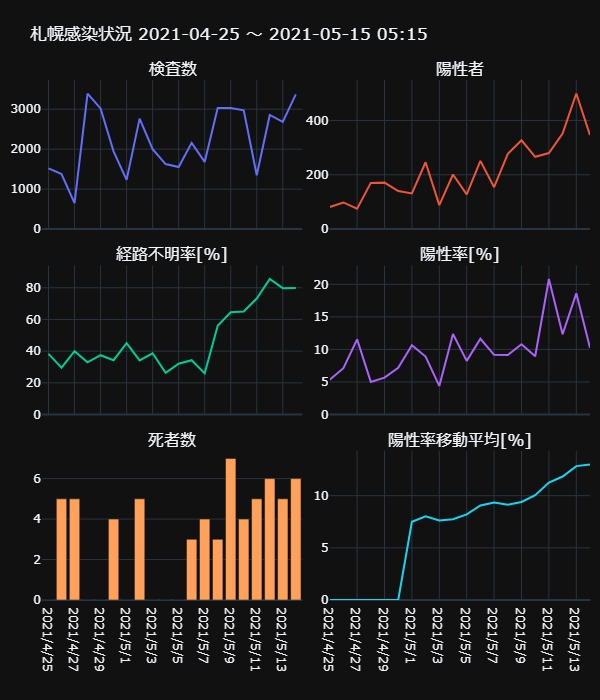
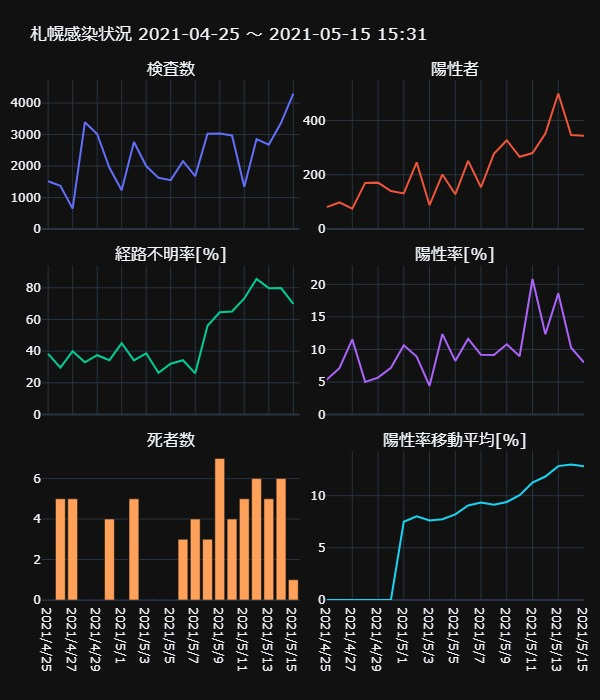
Updated with latest data.

diff --git a/docs/_includes/sapporo.html b/docs/_includes/sapporo.html
@@ -1,1 +1,1 @@
-<div>                            <div id="160d628d-3fd7-4721-a3ab-afab684be9de" class="plotly-graph-div" style="height:700px; width:600px;"></div>            <script type="text/javascript">                                    window.PLOTLYENV=window.PLOTLYENV || {};                                    if (document.getElementById("160d628d-3fd7-4721-a3ab-afab684be9de")) {                    Plotly.newPlot(                        "160d628d-3fd7-4721-a3ab-afab684be9de",                        [{"name": "\u691c\u67fb\u6570", "type": "scatter", "x": ["2021/4/25", "2021/4/26", "2021/4/27", "2021/4/28", "2021/4/29", "2021/4/30", "2021/5/1", "2021/5/2", "2021/5/3", "2021/5/4", "2021/5/5", "2021/5/6", "2021/5/7", "2021/5/8", "2021/5/9", "2021/5/10", "2021/5/11", "2021/5/12", "2021/5/13", "2021/5/14"], "xaxis": "x", "y": [1517, 1377, 649, 3391, 3018, 1946, 1231, 2764, 2001, 1626, 1553, 2157, 1680, 3028, 3031, 2972, 1345, 2856, 2680, 3372], "yaxis": "y"}, {"name": "\u967d\u6027\u8005", "type": "scatter", "x": ["2021/4/25", "2021/4/26", "2021/4/27", "2021/4/28", "2021/4/29", "2021/4/30", "2021/5/1", "2021/5/2", "2021/5/3", "2021/5/4", "2021/5/5", "2021/5/6", "2021/5/7", "2021/5/8", "2021/5/9", "2021/5/10", "2021/5/11", "2021/5/12", "2021/5/13", "2021/5/14"], "xaxis": "x2", "y": [81, 98, 75, 170, 171, 140, 131, 246, 88, 201, 128, 251, 154, 277, 327, 266, 280, 352, 499, 346], "yaxis": "y2"}, {"name": "\u7d4c\u8def\u4e0d\u660e\u7387[%]", "type": "scatter", "x": ["2021/4/25", "2021/4/26", "2021/4/27", "2021/4/28", "2021/4/29", "2021/4/30", "2021/5/1", "2021/5/2", "2021/5/3", "2021/5/4", "2021/5/5", "2021/5/6", "2021/5/7", "2021/5/8", "2021/5/9", "2021/5/10", "2021/5/11", "2021/5/12", "2021/5/13", "2021/5/14"], "xaxis": "x3", "y": [38.2716049382716, 29.591836734693878, 40.0, 32.94117647058823, 37.42690058479532, 34.285714285714285, 45.038167938931295, 34.146341463414636, 38.63636363636363, 26.368159203980102, 32.03125, 34.26294820717131, 25.97402597402597, 55.95667870036101, 64.52599388379205, 65.0375939849624, 73.21428571428571, 85.51136363636364, 79.75951903807615, 79.76878612716763], "yaxis": "y3"}, {"name": "\u967d\u6027\u7387[%]", "type": "scatter", "x": ["2021/4/25", "2021/4/26", "2021/4/27", "2021/4/28", "2021/4/29", "2021/4/30", "2021/5/1", "2021/5/2", "2021/5/3", "2021/5/4", "2021/5/5", "2021/5/6", "2021/5/7", "2021/5/8", "2021/5/9", "2021/5/10", "2021/5/11", "2021/5/12", "2021/5/13", "2021/5/14"], "xaxis": "x4", "y": [5.339485827290705, 7.116920842411038, 11.556240369799692, 5.013270421704512, 5.666003976143141, 7.194244604316546, 10.641754670999187, 8.90014471780029, 4.397801099450275, 12.361623616236162, 8.24211204121056, 11.636532220676866, 9.166666666666666, 9.147952443857331, 10.788518640712635, 8.950201884253028, 20.817843866171003, 12.324929971988796, 18.619402985074625, 10.26097271648873], "yaxis": "y4"}, {"name": "\u6b7b\u8005\u6570", "type": "bar", "x": ["2021/4/25", "2021/4/26", "2021/4/27", "2021/4/28", "2021/4/29", "2021/4/30", "2021/5/1", "2021/5/2", "2021/5/3", "2021/5/4", "2021/5/5", "2021/5/6", "2021/5/7", "2021/5/8", "2021/5/9", "2021/5/10", "2021/5/11", "2021/5/12", "2021/5/13", "2021/5/14"], "xaxis": "x5", "y": [0, 5, 5, 0, 0, 4, 0, 5, 0, 0, 0, 3, 4, 3, 7, 4, 5, 6, 5, 6], "yaxis": "y5"}, {"name": "\u967d\u6027\u7387\u79fb\u52d5\u5e73\u5747[%]", "type": "scatter", "x": ["2021/4/25", "2021/4/26", "2021/4/27", "2021/4/28", "2021/4/29", "2021/4/30", "2021/5/1", "2021/5/2", "2021/5/3", "2021/5/4", "2021/5/5", "2021/5/6", "2021/5/7", "2021/5/8", "2021/5/9", "2021/5/10", "2021/5/11", "2021/5/12", "2021/5/13", "2021/5/14"], "xaxis": "x6", "y": [0.0, 0.0, 0.0, 0.0, 0.0, 0.0, 7.503988673237832, 8.012654229024914, 7.624208551459091, 7.739263300950015, 8.20052638945088, 9.053458995812841, 9.335233576148571, 9.12183325798545, 9.391600961258641, 10.041943930516178, 11.249975394792585, 11.833235099189475, 12.830788065532012, 12.987117501220878], "yaxis": "y6"}],                        {"annotations": [{"font": {"size": 16}, "showarrow": false, "text": "\u691c\u67fb\u6570", "x": 0.2375, "xanchor": "center", "xref": "paper", "y": 1.0, "yanchor": "bottom", "yref": "paper"}, {"font": {"size": 16}, "showarrow": false, "text": "\u967d\u6027\u8005", "x": 0.7625, "xanchor": "center", "xref": "paper", "y": 1.0, "yanchor": "bottom", "yref": "paper"}, {"font": {"size": 16}, "showarrow": false, "text": "\u7d4c\u8def\u4e0d\u660e\u7387[%]", "x": 0.2375, "xanchor": "center", "xref": "paper", "y": 0.6433333333333333, "yanchor": "bottom", "yref": "paper"}, {"font": {"size": 16}, "showarrow": false, "text": "\u967d\u6027\u7387[%]", "x": 0.7625, "xanchor": "center", "xref": "paper", "y": 0.6433333333333333, "yanchor": "bottom", "yref": "paper"}, {"font": {"size": 16}, "showarrow": false, "text": "\u6b7b\u8005\u6570", "x": 0.2375, "xanchor": "center", "xref": "paper", "y": 0.2866666666666667, "yanchor": "bottom", "yref": "paper"}, {"font": {"size": 16}, "showarrow": false, "text": "\u967d\u6027\u7387\u79fb\u52d5\u5e73\u5747[%]", "x": 0.7625, "xanchor": "center", "xref": "paper", "y": 0.2866666666666667, "yanchor": "bottom", "yref": "paper"}], "height": 700, "margin": {"b": 100, "l": 10, "r": 10, "t": 80}, "showlegend": false, "template": {"data": {"bar": [{"error_x": {"color": "#f2f5fa"}, "error_y": {"color": "#f2f5fa"}, "marker": {"line": {"color": "rgb(17,17,17)", "width": 0.5}}, "type": "bar"}], "barpolar": [{"marker": {"line": {"color": "rgb(17,17,17)", "width": 0.5}}, "type": "barpolar"}], "carpet": [{"aaxis": {"endlinecolor": "#A2B1C6", "gridcolor": "#506784", "linecolor": "#506784", "minorgridcolor": "#506784", "startlinecolor": "#A2B1C6"}, "baxis": {"endlinecolor": "#A2B1C6", "gridcolor": "#506784", "linecolor": "#506784", "minorgridcolor": "#506784", "startlinecolor": "#A2B1C6"}, "type": "carpet"}], "choropleth": [{"colorbar": {"outlinewidth": 0, "ticks": ""}, "type": "choropleth"}], "contour": [{"colorbar": {"outlinewidth": 0, "ticks": ""}, "colorscale": [[0.0, "#0d0887"], [0.1111111111111111, "#46039f"], [0.2222222222222222, "#7201a8"], [0.3333333333333333, "#9c179e"], [0.4444444444444444, "#bd3786"], [0.5555555555555556, "#d8576b"], [0.6666666666666666, "#ed7953"], [0.7777777777777778, "#fb9f3a"], [0.8888888888888888, "#fdca26"], [1.0, "#f0f921"]], "type": "contour"}], "contourcarpet": [{"colorbar": {"outlinewidth": 0, "ticks": ""}, "type": "contourcarpet"}], "heatmap": [{"colorbar": {"outlinewidth": 0, "ticks": ""}, "colorscale": [[0.0, "#0d0887"], [0.1111111111111111, "#46039f"], [0.2222222222222222, "#7201a8"], [0.3333333333333333, "#9c179e"], [0.4444444444444444, "#bd3786"], [0.5555555555555556, "#d8576b"], [0.6666666666666666, "#ed7953"], [0.7777777777777778, "#fb9f3a"], [0.8888888888888888, "#fdca26"], [1.0, "#f0f921"]], "type": "heatmap"}], "heatmapgl": [{"colorbar": {"outlinewidth": 0, "ticks": ""}, "colorscale": [[0.0, "#0d0887"], [0.1111111111111111, "#46039f"], [0.2222222222222222, "#7201a8"], [0.3333333333333333, "#9c179e"], [0.4444444444444444, "#bd3786"], [0.5555555555555556, "#d8576b"], [0.6666666666666666, "#ed7953"], [0.7777777777777778, "#fb9f3a"], [0.8888888888888888, "#fdca26"], [1.0, "#f0f921"]], "type": "heatmapgl"}], "histogram": [{"marker": {"colorbar": {"outlinewidth": 0, "ticks": ""}}, "type": "histogram"}], "histogram2d": [{"colorbar": {"outlinewidth": 0, "ticks": ""}, "colorscale": [[0.0, "#0d0887"], [0.1111111111111111, "#46039f"], [0.2222222222222222, "#7201a8"], [0.3333333333333333, "#9c179e"], [0.4444444444444444, "#bd3786"], [0.5555555555555556, "#d8576b"], [0.6666666666666666, "#ed7953"], [0.7777777777777778, "#fb9f3a"], [0.8888888888888888, "#fdca26"], [1.0, "#f0f921"]], "type": "histogram2d"}], "histogram2dcontour": [{"colorbar": {"outlinewidth": 0, "ticks": ""}, "colorscale": [[0.0, "#0d0887"], [0.1111111111111111, "#46039f"], [0.2222222222222222, "#7201a8"], [0.3333333333333333, "#9c179e"], [0.4444444444444444, "#bd3786"], [0.5555555555555556, "#d8576b"], [0.6666666666666666, "#ed7953"], [0.7777777777777778, "#fb9f3a"], [0.8888888888888888, "#fdca26"], [1.0, "#f0f921"]], "type": "histogram2dcontour"}], "mesh3d": [{"colorbar": {"outlinewidth": 0, "ticks": ""}, "type": "mesh3d"}], "parcoords": [{"line": {"colorbar": {"outlinewidth": 0, "ticks": ""}}, "type": "parcoords"}], "pie": [{"automargin": true, "type": "pie"}], "scatter": [{"marker": {"line": {"color": "#283442"}}, "type": "scatter"}], "scatter3d": [{"line": {"colorbar": {"outlinewidth": 0, "ticks": ""}}, "marker": {"colorbar": {"outlinewidth": 0, "ticks": ""}}, "type": "scatter3d"}], "scattercarpet": [{"marker": {"colorbar": {"outlinewidth": 0, "ticks": ""}}, "type": "scattercarpet"}], "scattergeo": [{"marker": {"colorbar": {"outlinewidth": 0, "ticks": ""}}, "type": "scattergeo"}], "scattergl": [{"marker": {"line": {"color": "#283442"}}, "type": "scattergl"}], "scattermapbox": [{"marker": {"colorbar": {"outlinewidth": 0, "ticks": ""}}, "type": "scattermapbox"}], "scatterpolar": [{"marker": {"colorbar": {"outlinewidth": 0, "ticks": ""}}, "type": "scatterpolar"}], "scatterpolargl": [{"marker": {"colorbar": {"outlinewidth": 0, "ticks": ""}}, "type": "scatterpolargl"}], "scatterternary": [{"marker": {"colorbar": {"outlinewidth": 0, "ticks": ""}}, "type": "scatterternary"}], "surface": [{"colorbar": {"outlinewidth": 0, "ticks": ""}, "colorscale": [[0.0, "#0d0887"], [0.1111111111111111, "#46039f"], [0.2222222222222222, "#7201a8"], [0.3333333333333333, "#9c179e"], [0.4444444444444444, "#bd3786"], [0.5555555555555556, "#d8576b"], [0.6666666666666666, "#ed7953"], [0.7777777777777778, "#fb9f3a"], [0.8888888888888888, "#fdca26"], [1.0, "#f0f921"]], "type": "surface"}], "table": [{"cells": {"fill": {"color": "#506784"}, "line": {"color": "rgb(17,17,17)"}}, "header": {"fill": {"color": "#2a3f5f"}, "line": {"color": "rgb(17,17,17)"}}, "type": "table"}]}, "layout": {"annotationdefaults": {"arrowcolor": "#f2f5fa", "arrowhead": 0, "arrowwidth": 1}, "autotypenumbers": "strict", "coloraxis": {"colorbar": {"outlinewidth": 0, "ticks": ""}}, "colorscale": {"diverging": [[0, "#8e0152"], [0.1, "#c51b7d"], [0.2, "#de77ae"], [0.3, "#f1b6da"], [0.4, "#fde0ef"], [0.5, "#f7f7f7"], [0.6, "#e6f5d0"], [0.7, "#b8e186"], [0.8, "#7fbc41"], [0.9, "#4d9221"], [1, "#276419"]], "sequential": [[0.0, "#0d0887"], [0.1111111111111111, "#46039f"], [0.2222222222222222, "#7201a8"], [0.3333333333333333, "#9c179e"], [0.4444444444444444, "#bd3786"], [0.5555555555555556, "#d8576b"], [0.6666666666666666, "#ed7953"], [0.7777777777777778, "#fb9f3a"], [0.8888888888888888, "#fdca26"], [1.0, "#f0f921"]], "sequentialminus": [[0.0, "#0d0887"], [0.1111111111111111, "#46039f"], [0.2222222222222222, "#7201a8"], [0.3333333333333333, "#9c179e"], [0.4444444444444444, "#bd3786"], [0.5555555555555556, "#d8576b"], [0.6666666666666666, "#ed7953"], [0.7777777777777778, "#fb9f3a"], [0.8888888888888888, "#fdca26"], [1.0, "#f0f921"]]}, "colorway": ["#636efa", "#EF553B", "#00cc96", "#ab63fa", "#FFA15A", "#19d3f3", "#FF6692", "#B6E880", "#FF97FF", "#FECB52"], "font": {"color": "#f2f5fa"}, "geo": {"bgcolor": "rgb(17,17,17)", "lakecolor": "rgb(17,17,17)", "landcolor": "rgb(17,17,17)", "showlakes": true, "showland": true, "subunitcolor": "#506784"}, "hoverlabel": {"align": "left"}, "hovermode": "closest", "mapbox": {"style": "dark"}, "paper_bgcolor": "rgb(17,17,17)", "plot_bgcolor": "rgb(17,17,17)", "polar": {"angularaxis": {"gridcolor": "#506784", "linecolor": "#506784", "ticks": ""}, "bgcolor": "rgb(17,17,17)", "radialaxis": {"gridcolor": "#506784", "linecolor": "#506784", "ticks": ""}}, "scene": {"xaxis": {"backgroundcolor": "rgb(17,17,17)", "gridcolor": "#506784", "gridwidth": 2, "linecolor": "#506784", "showbackground": true, "ticks": "", "zerolinecolor": "#C8D4E3"}, "yaxis": {"backgroundcolor": "rgb(17,17,17)", "gridcolor": "#506784", "gridwidth": 2, "linecolor": "#506784", "showbackground": true, "ticks": "", "zerolinecolor": "#C8D4E3"}, "zaxis": {"backgroundcolor": "rgb(17,17,17)", "gridcolor": "#506784", "gridwidth": 2, "linecolor": "#506784", "showbackground": true, "ticks": "", "zerolinecolor": "#C8D4E3"}}, "shapedefaults": {"line": {"color": "#f2f5fa"}}, "sliderdefaults": {"bgcolor": "#C8D4E3", "bordercolor": "rgb(17,17,17)", "borderwidth": 1, "tickwidth": 0}, "ternary": {"aaxis": {"gridcolor": "#506784", "linecolor": "#506784", "ticks": ""}, "baxis": {"gridcolor": "#506784", "linecolor": "#506784", "ticks": ""}, "bgcolor": "rgb(17,17,17)", "caxis": {"gridcolor": "#506784", "linecolor": "#506784", "ticks": ""}}, "title": {"x": 0.05}, "updatemenudefaults": {"bgcolor": "#506784", "borderwidth": 0}, "xaxis": {"automargin": true, "gridcolor": "#283442", "linecolor": "#506784", "ticks": "", "title": {"standoff": 15}, "zerolinecolor": "#283442", "zerolinewidth": 2}, "yaxis": {"automargin": true, "gridcolor": "#283442", "linecolor": "#506784", "ticks": "", "title": {"standoff": 15}, "zerolinecolor": "#283442", "zerolinewidth": 2}}}, "title": {"text": "\u672d\u5e4c\u611f\u67d3\u72b6\u6cc1 2021-04-25 \uff5e 2021-05-15 05:15"}, "width": 600, "xaxis": {"anchor": "y", "domain": [0.0, 0.475], "matches": "x5", "showticklabels": false}, "xaxis2": {"anchor": "y2", "domain": [0.525, 1.0], "matches": "x6", "showticklabels": false}, "xaxis3": {"anchor": "y3", "domain": [0.0, 0.475], "matches": "x5", "showticklabels": false}, "xaxis4": {"anchor": "y4", "domain": [0.525, 1.0], "matches": "x6", "showticklabels": false}, "xaxis5": {"anchor": "y5", "domain": [0.0, 0.475]}, "xaxis6": {"anchor": "y6", "domain": [0.525, 1.0]}, "yaxis": {"anchor": "x", "domain": [0.7133333333333334, 1.0], "range": [0, 3730.1000000000004]}, "yaxis2": {"anchor": "x2", "domain": [0.7133333333333334, 1.0], "range": [0, 548.9000000000001]}, "yaxis3": {"anchor": "x3", "domain": [0.3566666666666667, 0.6433333333333333], "range": [0, 94.06250000000001]}, "yaxis4": {"anchor": "x4", "domain": [0.3566666666666667, 0.6433333333333333], "range": [0, 22.899628252788105]}, "yaxis5": {"anchor": "x5", "domain": [0.0, 0.2866666666666667]}, "yaxis6": {"anchor": "x6", "domain": [0.0, 0.2866666666666667], "range": [0, 14.285829251342967]}},                        {"responsive": true}                    )                };                            </script>        </div>
+<div>                            <div id="f09716a9-8408-4a1b-a61a-2e7aa1d3f681" class="plotly-graph-div" style="height:700px; width:600px;"></div>            <script type="text/javascript">                                    window.PLOTLYENV=window.PLOTLYENV || {};                                    if (document.getElementById("f09716a9-8408-4a1b-a61a-2e7aa1d3f681")) {                    Plotly.newPlot(                        "f09716a9-8408-4a1b-a61a-2e7aa1d3f681",                        [{"name": "\u691c\u67fb\u6570", "type": "scatter", "x": ["2021/4/25", "2021/4/26", "2021/4/27", "2021/4/28", "2021/4/29", "2021/4/30", "2021/5/1", "2021/5/2", "2021/5/3", "2021/5/4", "2021/5/5", "2021/5/6", "2021/5/7", "2021/5/8", "2021/5/9", "2021/5/10", "2021/5/11", "2021/5/12", "2021/5/13", "2021/5/14", "2021/5/15"], "xaxis": "x", "y": [1517, 1377, 649, 3391, 3018, 1946, 1231, 2764, 2001, 1626, 1553, 2157, 1680, 3028, 3031, 2972, 1345, 2856, 2680, 3372, 4302], "yaxis": "y"}, {"name": "\u967d\u6027\u8005", "type": "scatter", "x": ["2021/4/25", "2021/4/26", "2021/4/27", "2021/4/28", "2021/4/29", "2021/4/30", "2021/5/1", "2021/5/2", "2021/5/3", "2021/5/4", "2021/5/5", "2021/5/6", "2021/5/7", "2021/5/8", "2021/5/9", "2021/5/10", "2021/5/11", "2021/5/12", "2021/5/13", "2021/5/14", "2021/5/15"], "xaxis": "x2", "y": [81, 98, 75, 170, 171, 140, 131, 246, 88, 201, 128, 251, 154, 277, 327, 266, 280, 352, 499, 346, 344], "yaxis": "y2"}, {"name": "\u7d4c\u8def\u4e0d\u660e\u7387[%]", "type": "scatter", "x": ["2021/4/25", "2021/4/26", "2021/4/27", "2021/4/28", "2021/4/29", "2021/4/30", "2021/5/1", "2021/5/2", "2021/5/3", "2021/5/4", "2021/5/5", "2021/5/6", "2021/5/7", "2021/5/8", "2021/5/9", "2021/5/10", "2021/5/11", "2021/5/12", "2021/5/13", "2021/5/14", "2021/5/15"], "xaxis": "x3", "y": [38.2716049382716, 29.591836734693878, 40.0, 32.94117647058823, 37.42690058479532, 34.285714285714285, 45.038167938931295, 34.146341463414636, 38.63636363636363, 26.368159203980102, 32.03125, 34.26294820717131, 25.97402597402597, 55.95667870036101, 64.52599388379205, 65.0375939849624, 73.21428571428571, 85.51136363636364, 79.75951903807615, 79.76878612716763, 69.76744186046511], "yaxis": "y3"}, {"name": "\u967d\u6027\u7387[%]", "type": "scatter", "x": ["2021/4/25", "2021/4/26", "2021/4/27", "2021/4/28", "2021/4/29", "2021/4/30", "2021/5/1", "2021/5/2", "2021/5/3", "2021/5/4", "2021/5/5", "2021/5/6", "2021/5/7", "2021/5/8", "2021/5/9", "2021/5/10", "2021/5/11", "2021/5/12", "2021/5/13", "2021/5/14", "2021/5/15"], "xaxis": "x4", "y": [5.339485827290705, 7.116920842411038, 11.556240369799692, 5.013270421704512, 5.666003976143141, 7.194244604316546, 10.641754670999187, 8.90014471780029, 4.397801099450275, 12.361623616236162, 8.24211204121056, 11.636532220676866, 9.166666666666666, 9.147952443857331, 10.788518640712635, 8.950201884253028, 20.817843866171003, 12.324929971988796, 18.619402985074625, 10.26097271648873, 7.996280799628081], "yaxis": "y4"}, {"name": "\u6b7b\u8005\u6570", "type": "bar", "x": ["2021/4/25", "2021/4/26", "2021/4/27", "2021/4/28", "2021/4/29", "2021/4/30", "2021/5/1", "2021/5/2", "2021/5/3", "2021/5/4", "2021/5/5", "2021/5/6", "2021/5/7", "2021/5/8", "2021/5/9", "2021/5/10", "2021/5/11", "2021/5/12", "2021/5/13", "2021/5/14", "2021/5/15"], "xaxis": "x5", "y": [0, 5, 5, 0, 0, 4, 0, 5, 0, 0, 0, 3, 4, 3, 7, 4, 5, 6, 5, 6, 1], "yaxis": "y5"}, {"name": "\u967d\u6027\u7387\u79fb\u52d5\u5e73\u5747[%]", "type": "scatter", "x": ["2021/4/25", "2021/4/26", "2021/4/27", "2021/4/28", "2021/4/29", "2021/4/30", "2021/5/1", "2021/5/2", "2021/5/3", "2021/5/4", "2021/5/5", "2021/5/6", "2021/5/7", "2021/5/8", "2021/5/9", "2021/5/10", "2021/5/11", "2021/5/12", "2021/5/13", "2021/5/14", "2021/5/15"], "xaxis": "x6", "y": [0.0, 0.0, 0.0, 0.0, 0.0, 0.0, 7.503988673237832, 8.012654229024914, 7.624208551459091, 7.739263300950015, 8.20052638945088, 9.053458995812841, 9.335233576148571, 9.12183325798545, 9.391600961258641, 10.041943930516178, 11.249975394792585, 11.833235099189475, 12.830788065532012, 12.987117501220878, 12.8225929806167], "yaxis": "y6"}],                        {"annotations": [{"font": {"size": 16}, "showarrow": false, "text": "\u691c\u67fb\u6570", "x": 0.2375, "xanchor": "center", "xref": "paper", "y": 1.0, "yanchor": "bottom", "yref": "paper"}, {"font": {"size": 16}, "showarrow": false, "text": "\u967d\u6027\u8005", "x": 0.7625, "xanchor": "center", "xref": "paper", "y": 1.0, "yanchor": "bottom", "yref": "paper"}, {"font": {"size": 16}, "showarrow": false, "text": "\u7d4c\u8def\u4e0d\u660e\u7387[%]", "x": 0.2375, "xanchor": "center", "xref": "paper", "y": 0.6433333333333333, "yanchor": "bottom", "yref": "paper"}, {"font": {"size": 16}, "showarrow": false, "text": "\u967d\u6027\u7387[%]", "x": 0.7625, "xanchor": "center", "xref": "paper", "y": 0.6433333333333333, "yanchor": "bottom", "yref": "paper"}, {"font": {"size": 16}, "showarrow": false, "text": "\u6b7b\u8005\u6570", "x": 0.2375, "xanchor": "center", "xref": "paper", "y": 0.2866666666666667, "yanchor": "bottom", "yref": "paper"}, {"font": {"size": 16}, "showarrow": false, "text": "\u967d\u6027\u7387\u79fb\u52d5\u5e73\u5747[%]", "x": 0.7625, "xanchor": "center", "xref": "paper", "y": 0.2866666666666667, "yanchor": "bottom", "yref": "paper"}], "height": 700, "margin": {"b": 100, "l": 10, "r": 10, "t": 80}, "showlegend": false, "template": {"data": {"bar": [{"error_x": {"color": "#f2f5fa"}, "error_y": {"color": "#f2f5fa"}, "marker": {"line": {"color": "rgb(17,17,17)", "width": 0.5}}, "type": "bar"}], "barpolar": [{"marker": {"line": {"color": "rgb(17,17,17)", "width": 0.5}}, "type": "barpolar"}], "carpet": [{"aaxis": {"endlinecolor": "#A2B1C6", "gridcolor": "#506784", "linecolor": "#506784", "minorgridcolor": "#506784", "startlinecolor": "#A2B1C6"}, "baxis": {"endlinecolor": "#A2B1C6", "gridcolor": "#506784", "linecolor": "#506784", "minorgridcolor": "#506784", "startlinecolor": "#A2B1C6"}, "type": "carpet"}], "choropleth": [{"colorbar": {"outlinewidth": 0, "ticks": ""}, "type": "choropleth"}], "contour": [{"colorbar": {"outlinewidth": 0, "ticks": ""}, "colorscale": [[0.0, "#0d0887"], [0.1111111111111111, "#46039f"], [0.2222222222222222, "#7201a8"], [0.3333333333333333, "#9c179e"], [0.4444444444444444, "#bd3786"], [0.5555555555555556, "#d8576b"], [0.6666666666666666, "#ed7953"], [0.7777777777777778, "#fb9f3a"], [0.8888888888888888, "#fdca26"], [1.0, "#f0f921"]], "type": "contour"}], "contourcarpet": [{"colorbar": {"outlinewidth": 0, "ticks": ""}, "type": "contourcarpet"}], "heatmap": [{"colorbar": {"outlinewidth": 0, "ticks": ""}, "colorscale": [[0.0, "#0d0887"], [0.1111111111111111, "#46039f"], [0.2222222222222222, "#7201a8"], [0.3333333333333333, "#9c179e"], [0.4444444444444444, "#bd3786"], [0.5555555555555556, "#d8576b"], [0.6666666666666666, "#ed7953"], [0.7777777777777778, "#fb9f3a"], [0.8888888888888888, "#fdca26"], [1.0, "#f0f921"]], "type": "heatmap"}], "heatmapgl": [{"colorbar": {"outlinewidth": 0, "ticks": ""}, "colorscale": [[0.0, "#0d0887"], [0.1111111111111111, "#46039f"], [0.2222222222222222, "#7201a8"], [0.3333333333333333, "#9c179e"], [0.4444444444444444, "#bd3786"], [0.5555555555555556, "#d8576b"], [0.6666666666666666, "#ed7953"], [0.7777777777777778, "#fb9f3a"], [0.8888888888888888, "#fdca26"], [1.0, "#f0f921"]], "type": "heatmapgl"}], "histogram": [{"marker": {"colorbar": {"outlinewidth": 0, "ticks": ""}}, "type": "histogram"}], "histogram2d": [{"colorbar": {"outlinewidth": 0, "ticks": ""}, "colorscale": [[0.0, "#0d0887"], [0.1111111111111111, "#46039f"], [0.2222222222222222, "#7201a8"], [0.3333333333333333, "#9c179e"], [0.4444444444444444, "#bd3786"], [0.5555555555555556, "#d8576b"], [0.6666666666666666, "#ed7953"], [0.7777777777777778, "#fb9f3a"], [0.8888888888888888, "#fdca26"], [1.0, "#f0f921"]], "type": "histogram2d"}], "histogram2dcontour": [{"colorbar": {"outlinewidth": 0, "ticks": ""}, "colorscale": [[0.0, "#0d0887"], [0.1111111111111111, "#46039f"], [0.2222222222222222, "#7201a8"], [0.3333333333333333, "#9c179e"], [0.4444444444444444, "#bd3786"], [0.5555555555555556, "#d8576b"], [0.6666666666666666, "#ed7953"], [0.7777777777777778, "#fb9f3a"], [0.8888888888888888, "#fdca26"], [1.0, "#f0f921"]], "type": "histogram2dcontour"}], "mesh3d": [{"colorbar": {"outlinewidth": 0, "ticks": ""}, "type": "mesh3d"}], "parcoords": [{"line": {"colorbar": {"outlinewidth": 0, "ticks": ""}}, "type": "parcoords"}], "pie": [{"automargin": true, "type": "pie"}], "scatter": [{"marker": {"line": {"color": "#283442"}}, "type": "scatter"}], "scatter3d": [{"line": {"colorbar": {"outlinewidth": 0, "ticks": ""}}, "marker": {"colorbar": {"outlinewidth": 0, "ticks": ""}}, "type": "scatter3d"}], "scattercarpet": [{"marker": {"colorbar": {"outlinewidth": 0, "ticks": ""}}, "type": "scattercarpet"}], "scattergeo": [{"marker": {"colorbar": {"outlinewidth": 0, "ticks": ""}}, "type": "scattergeo"}], "scattergl": [{"marker": {"line": {"color": "#283442"}}, "type": "scattergl"}], "scattermapbox": [{"marker": {"colorbar": {"outlinewidth": 0, "ticks": ""}}, "type": "scattermapbox"}], "scatterpolar": [{"marker": {"colorbar": {"outlinewidth": 0, "ticks": ""}}, "type": "scatterpolar"}], "scatterpolargl": [{"marker": {"colorbar": {"outlinewidth": 0, "ticks": ""}}, "type": "scatterpolargl"}], "scatterternary": [{"marker": {"colorbar": {"outlinewidth": 0, "ticks": ""}}, "type": "scatterternary"}], "surface": [{"colorbar": {"outlinewidth": 0, "ticks": ""}, "colorscale": [[0.0, "#0d0887"], [0.1111111111111111, "#46039f"], [0.2222222222222222, "#7201a8"], [0.3333333333333333, "#9c179e"], [0.4444444444444444, "#bd3786"], [0.5555555555555556, "#d8576b"], [0.6666666666666666, "#ed7953"], [0.7777777777777778, "#fb9f3a"], [0.8888888888888888, "#fdca26"], [1.0, "#f0f921"]], "type": "surface"}], "table": [{"cells": {"fill": {"color": "#506784"}, "line": {"color": "rgb(17,17,17)"}}, "header": {"fill": {"color": "#2a3f5f"}, "line": {"color": "rgb(17,17,17)"}}, "type": "table"}]}, "layout": {"annotationdefaults": {"arrowcolor": "#f2f5fa", "arrowhead": 0, "arrowwidth": 1}, "autotypenumbers": "strict", "coloraxis": {"colorbar": {"outlinewidth": 0, "ticks": ""}}, "colorscale": {"diverging": [[0, "#8e0152"], [0.1, "#c51b7d"], [0.2, "#de77ae"], [0.3, "#f1b6da"], [0.4, "#fde0ef"], [0.5, "#f7f7f7"], [0.6, "#e6f5d0"], [0.7, "#b8e186"], [0.8, "#7fbc41"], [0.9, "#4d9221"], [1, "#276419"]], "sequential": [[0.0, "#0d0887"], [0.1111111111111111, "#46039f"], [0.2222222222222222, "#7201a8"], [0.3333333333333333, "#9c179e"], [0.4444444444444444, "#bd3786"], [0.5555555555555556, "#d8576b"], [0.6666666666666666, "#ed7953"], [0.7777777777777778, "#fb9f3a"], [0.8888888888888888, "#fdca26"], [1.0, "#f0f921"]], "sequentialminus": [[0.0, "#0d0887"], [0.1111111111111111, "#46039f"], [0.2222222222222222, "#7201a8"], [0.3333333333333333, "#9c179e"], [0.4444444444444444, "#bd3786"], [0.5555555555555556, "#d8576b"], [0.6666666666666666, "#ed7953"], [0.7777777777777778, "#fb9f3a"], [0.8888888888888888, "#fdca26"], [1.0, "#f0f921"]]}, "colorway": ["#636efa", "#EF553B", "#00cc96", "#ab63fa", "#FFA15A", "#19d3f3", "#FF6692", "#B6E880", "#FF97FF", "#FECB52"], "font": {"color": "#f2f5fa"}, "geo": {"bgcolor": "rgb(17,17,17)", "lakecolor": "rgb(17,17,17)", "landcolor": "rgb(17,17,17)", "showlakes": true, "showland": true, "subunitcolor": "#506784"}, "hoverlabel": {"align": "left"}, "hovermode": "closest", "mapbox": {"style": "dark"}, "paper_bgcolor": "rgb(17,17,17)", "plot_bgcolor": "rgb(17,17,17)", "polar": {"angularaxis": {"gridcolor": "#506784", "linecolor": "#506784", "ticks": ""}, "bgcolor": "rgb(17,17,17)", "radialaxis": {"gridcolor": "#506784", "linecolor": "#506784", "ticks": ""}}, "scene": {"xaxis": {"backgroundcolor": "rgb(17,17,17)", "gridcolor": "#506784", "gridwidth": 2, "linecolor": "#506784", "showbackground": true, "ticks": "", "zerolinecolor": "#C8D4E3"}, "yaxis": {"backgroundcolor": "rgb(17,17,17)", "gridcolor": "#506784", "gridwidth": 2, "linecolor": "#506784", "showbackground": true, "ticks": "", "zerolinecolor": "#C8D4E3"}, "zaxis": {"backgroundcolor": "rgb(17,17,17)", "gridcolor": "#506784", "gridwidth": 2, "linecolor": "#506784", "showbackground": true, "ticks": "", "zerolinecolor": "#C8D4E3"}}, "shapedefaults": {"line": {"color": "#f2f5fa"}}, "sliderdefaults": {"bgcolor": "#C8D4E3", "bordercolor": "rgb(17,17,17)", "borderwidth": 1, "tickwidth": 0}, "ternary": {"aaxis": {"gridcolor": "#506784", "linecolor": "#506784", "ticks": ""}, "baxis": {"gridcolor": "#506784", "linecolor": "#506784", "ticks": ""}, "bgcolor": "rgb(17,17,17)", "caxis": {"gridcolor": "#506784", "linecolor": "#506784", "ticks": ""}}, "title": {"x": 0.05}, "updatemenudefaults": {"bgcolor": "#506784", "borderwidth": 0}, "xaxis": {"automargin": true, "gridcolor": "#283442", "linecolor": "#506784", "ticks": "", "title": {"standoff": 15}, "zerolinecolor": "#283442", "zerolinewidth": 2}, "yaxis": {"automargin": true, "gridcolor": "#283442", "linecolor": "#506784", "ticks": "", "title": {"standoff": 15}, "zerolinecolor": "#283442", "zerolinewidth": 2}}}, "title": {"text": "\u672d\u5e4c\u611f\u67d3\u72b6\u6cc1 2021-04-25 \uff5e 2021-05-15 15:31"}, "width": 600, "xaxis": {"anchor": "y", "domain": [0.0, 0.475], "matches": "x5", "showticklabels": false}, "xaxis2": {"anchor": "y2", "domain": [0.525, 1.0], "matches": "x6", "showticklabels": false}, "xaxis3": {"anchor": "y3", "domain": [0.0, 0.475], "matches": "x5", "showticklabels": false}, "xaxis4": {"anchor": "y4", "domain": [0.525, 1.0], "matches": "x6", "showticklabels": false}, "xaxis5": {"anchor": "y5", "domain": [0.0, 0.475]}, "xaxis6": {"anchor": "y6", "domain": [0.525, 1.0]}, "yaxis": {"anchor": "x", "domain": [0.7133333333333334, 1.0], "range": [0, 4732.200000000001]}, "yaxis2": {"anchor": "x2", "domain": [0.7133333333333334, 1.0], "range": [0, 548.9000000000001]}, "yaxis3": {"anchor": "x3", "domain": [0.3566666666666667, 0.6433333333333333], "range": [0, 94.06250000000001]}, "yaxis4": {"anchor": "x4", "domain": [0.3566666666666667, 0.6433333333333333], "range": [0, 22.899628252788105]}, "yaxis5": {"anchor": "x5", "domain": [0.0, 0.2866666666666667]}, "yaxis6": {"anchor": "x6", "domain": [0.0, 0.2866666666666667], "range": [0, 14.285829251342967]}},                        {"responsive": true}                    )                };                            </script>        </div>
